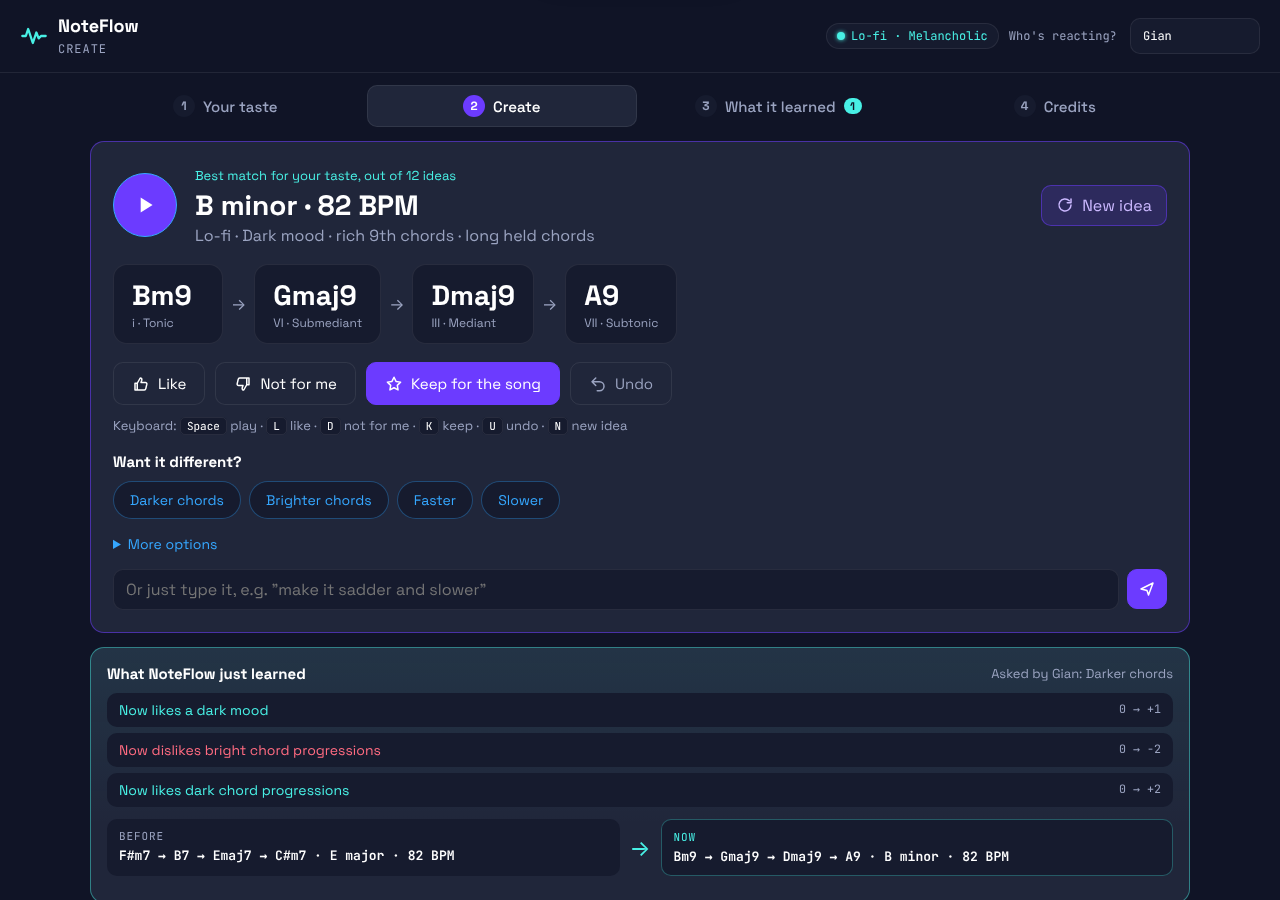
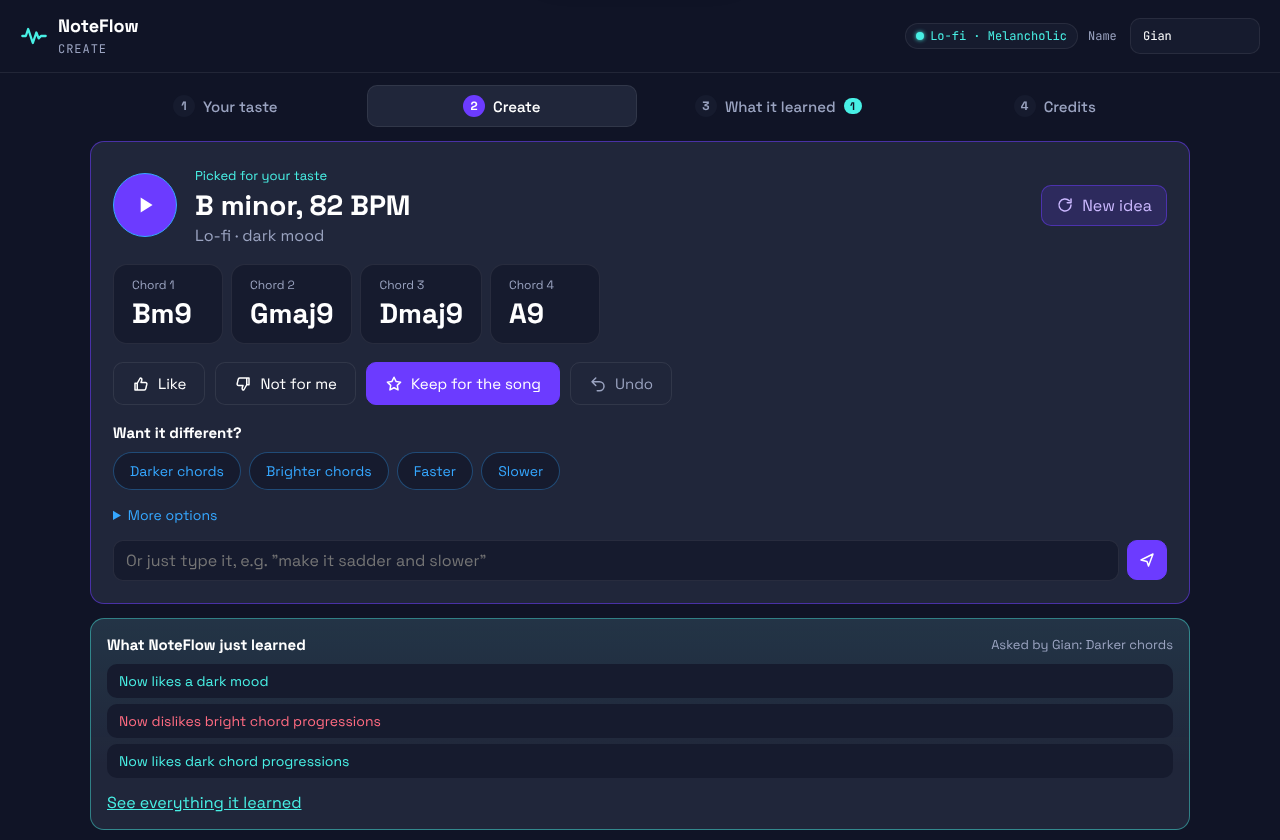
Clean up repo and docs for judges

diff --git a/static/app.js b/static/app.js
@@ -11,7 +11,6 @@ const KIND_NAMES = {
   restore: "Picked up where you left off",
 };
 const TAB_NAMES = { studio: "Create", preferences: "Your taste", engine: "What it learned", split: "Credits" };
-const HOOKS = ["Chorus", "Drop"];
 const GROUPS = [
   ["Mood", ["darker", "brighter"]],
   ["Speed", ["faster", "slower"]],
@@ -52,7 +51,6 @@ const MAIN_CHANGES = ["darker", "brighter", "faster", "slower"];
 const DEMO = { genre: "lofi", mood: "melancholic", bpm: 82 };
 
 const esc = (text) => String(text ?? "").replace(/[&<>"']/g, (c) => `&#${c.charCodeAt(0)};`);
-const signed = (n) => (n > 0 ? `+${n}` : `${n}`);
 const band = (bpm) => (bpm < 90 ? "slow" : bpm < 115 ? "medium" : "fast");
 const phrase = (kind, value) => PHRASES[kind]?.(value) || `${kind} ${value}`;
 const positive = (stance) => stance === "likes" || stance === "loves";
@@ -65,9 +63,8 @@ function changeSentence(c) {
   return `Dislikes ${what} ${more ? "a bit less" : "even more"}`;
 }
 
-function changeItem(c, tag = "li") {
-  const up = c.to > c.from ? "up" : "down";
-  return `<${tag} class="learned ${up}"><span>${esc(changeSentence(c))}</span><small>${signed(c.from)} → ${signed(c.to)}</small></${tag}>`;
+function changeItem(c) {
+  return `<li class="learned ${c.to > c.from ? "up" : "down"}"><span>${esc(changeSentence(c))}</span></li>`;
 }
 
 async function api(path, body) {
@@ -187,39 +184,27 @@ function renderSuggestion() {
   $("#play").disabled = !ready;
   if (!ready) return;
   const { idea, reasons } = suggestion;
-  $("#pick-note").textContent = suggestion.explored
-    ? "Trying something new to learn your taste"
-    : `Best match for your taste, out of ${suggestion.considered} ideas`;
+  $("#pick-note").textContent = suggestion.explored ? "Trying something new to learn your taste" : "Picked for your taste";
   $("#pick-note").className = `pick-note ${suggestion.explored ? "explore" : ""}`;
-  $("#idea-title").textContent = `${idea.key[0].toUpperCase()}${idea.key.slice(1)} · ${idea.bpm} BPM`;
-  $("#idea-meta").textContent = `${state.options.genres[state.profile.genre]} · ${state.options.moods[idea.features.mood]} mood · ${phrase("harmony", idea.features.harmony)} · ${phrase("rhythm", idea.features.rhythm)}`;
+  $("#idea-title").textContent = `${idea.key[0].toUpperCase()}${idea.key.slice(1)}, ${idea.bpm} BPM`;
+  $("#idea-meta").textContent = `${state.options.genres[state.profile.genre]} · ${state.options.moods[idea.features.mood].toLowerCase()} mood`;
   $("#chords").innerHTML = idea.chords
-    .map((c) => `<div class="chord"><b>${esc(c.name)}</b><small>${esc(c.roman)} · ${esc(c.function)}</small></div>`)
-    .join('<span class="chord-arrow">→</span>');
-  $("#sections").innerHTML = idea.structure
-    .map((x) => `<span class="${HOOKS.includes(x.section) ? "hook" : ""}">${esc(x.section)} · ${x.bars} bars</span>`)
+    .map((c, i) => `<div class="chord"><small>Chord ${i + 1}</small><b>${esc(c.name)}</b></div>`)
     .join("");
   $("#theme-tag").textContent = `About ${idea.features.theme}`;
   $("#lyrics").innerHTML = idea.lyrics.map((line) => `<li>${esc(line)}</li>`).join("");
-  $("#voicings").innerHTML = idea.chords.map(voicingCard).join("");
-  $("#reasons").innerHTML = reasons.map(reasonRow).join("");
+  $("#song-form").textContent = `Song form: ${idea.structure.map((x) => x.section).join(" → ")}`;
+  const ranked = [...reasons].sort((a, b) => b.weight - a.weight);
+  $("#reasons").innerHTML = ranked.slice(0, 3).map(reasonRow).join("");
+  $("#reasons-all").innerHTML = ranked.slice(3).map(reasonRow).join("");
   $$(".verdict").forEach((b) => (b.disabled = false));
   $("#undo").disabled = !state.can_undo;
 }
 
-function voicingCard(chord) {
-  const low = Math.min(...chord.midi);
-  const range = Math.max(1, Math.max(...chord.midi) - low);
-  const bars = chord.midi
-    .map((m, j) => `<div><span>${esc(chord.notes[j])}</span><i style="width:${30 + (70 * (m - low)) / range}%"></i></div>`)
-    .join("");
-  return `<div class="voicing-card"><b>${esc(chord.name)}</b><div class="voicing">${bars}</div></div>`;
-}
-
 function reasonRow(r) {
   const mood = r.weight > 0 ? "up" : r.weight < 0 ? "down" : "";
-  const source = r.shaped_by === "Your preferences" ? "From your starting taste" : r.shaped_by ? `Learned from: ${r.shaped_by}` : "Not rated yet";
-  return `<li class="${mood}"><span>${esc(REASON[r.stance])} <b>${esc(phrase(r.kind, r.value))}</b></span><span class="w">${signed(r.weight)}</span><small>${esc(source)}</small></li>`;
+  const asked = r.shaped_by && r.shaped_by !== "Your preferences" ? `<small>Because: ${esc(r.shaped_by)}</small>` : "";
+  return `<li class="${mood}"><span>${esc(REASON[r.stance])} <b>${esc(phrase(r.kind, r.value))}</b></span>${asked}</li>`;
 }
 
 function changeButtons(ids, labels) {
@@ -278,7 +263,7 @@ function entryCard(e) {
     `<div class="entry-head"><span class="kind ${e.kind}">${KIND_NAMES[e.kind]}</span><span class="muted small">Update ${e.version} · ${timeAgo(e.time)}</span></div>`,
     e.kind === "setup" ? `<div>${esc(e.label.replace("Calibrated from preferences: ", "Started from your taste: "))}</div>` : `<div>${esc(e.label)}</div>`,
     e.quote ? `<div class="quote">"${esc(e.quote)}"</div>` : "",
-    changes.length ? `<ul class="learned-list">${changes.map((c) => changeItem(c)).join("")}</ul>` : "",
+    changes.length ? `<ul class="learned-list">${changes.map(changeItem).join("")}</ul>` : "",
     e.before ? `<div class="ba-row"><div class="ba"><span>Before</span><b>${esc(e.before)}</b></div><div class="ba-arrow">→</div><div class="ba after"><span>Next idea</span><b>${esc(e.after || "")}</b></div></div>` : "",
   ];
   return `<div class="entry ${e.version === freshVersion ? "fresh" : ""}">${parts.join("")}</div>`;
@@ -309,7 +294,6 @@ function renderEngine() {
   }
   const feedback = state.history.filter((h) => ["like", "dislike", "keep", "request"].includes(h.kind)).length;
   $("#stat-rules").textContent = `${state.seed_count} → ${state.rule_count}`;
-  $("#stat-version").textContent = state.version;
   $("#stat-feedback").textContent = feedback;
   $("#stat-kept").textContent = state.song.length;
   const peak = Math.max(...state.history.map((h) => h.count), 1);
@@ -408,11 +392,8 @@ function renderAll() {
 
 function showChanged(entry) {
   const changes = entry.changes || [];
-  const more = changes.length > 5 ? `<li class="learned muted">…and ${changes.length - 5} more in "What it learned"</li>` : "";
   $("#changed-label").textContent = entry.label;
-  $("#changed-before").textContent = entry.before;
-  $("#changed-after").textContent = entry.after;
-  $("#changed-list").innerHTML = changes.slice(0, 5).map((c) => changeItem(c)).join("") + more;
+  $("#changed-list").innerHTML = changes.slice(0, 3).map(changeItem).join("");
   $("#changed").hidden = false;
 }
 
@@ -458,6 +439,7 @@ async function guarded(task, label = "Writing a new idea…") {
 
 $$(".tabs button").forEach((b) => b.addEventListener("click", () => showTab(b.dataset.tab)));
 $$(".go-preferences").forEach((b) => b.addEventListener("click", () => showTab("preferences")));
+$$(".go-learned").forEach((b) => b.addEventListener("click", () => showTab("engine")));
 $("#play").addEventListener("click", () => ($("#play").classList.contains("playing") ? stopAudio() : play()));
 
 $("#regenerate").addEventListener("click", () => guarded(async () => {

diff --git a/static/style.css b/static/style.css
@@ -179,9 +179,6 @@ main { max-width: 1100px; width: calc(100% - 32px); margin: 0 auto; padding: 14p
 .stats span { display: block; font-family: var(--mono); font-size: 11.5px; text-transform: uppercase; letter-spacing: 0.08em; color: var(--muted); }
 .stats b { display: block; margin-top: 4px; font-size: 22px; color: var(--cyan); }
 
-.sections { display: flex; flex-wrap: wrap; gap: 6px; }
-.sections span { font-family: var(--mono); font-size: 12px; text-transform: uppercase; padding: 5px 9px; border-radius: 8px; background: var(--surface); border: 1px solid var(--line); }
-.sections span.hook { background: var(--primary); border-color: var(--primary); }
 
 .hero { border-color: rgba(108, 59, 255, 0.55); padding: 22px; display: flex; flex-direction: column; gap: 18px; }
 .hero-top { display: flex; align-items: center; gap: 18px; }
@@ -198,9 +195,8 @@ main { max-width: 1100px; width: calc(100% - 32px); margin: 0 auto; padding: 14p
 .chord-line { display: flex; flex-wrap: wrap; align-items: center; gap: 8px; }
 .chord { display: flex; flex-direction: column; gap: 2px; padding: 12px 18px; border-radius: 14px; background: var(--inset); border: 1px solid var(--line); min-width: 110px; transition: border-color .15s, background .15s; }
 .chord b { font-size: 28px; }
-.chord small { color: var(--muted); font-size: 12px; }
+.chord small { color: var(--muted); font-size: 12px; order: -1; }
 .chord.on { border-color: var(--cyan); background: rgba(72, 240, 229, 0.08); }
-.chord-arrow { color: var(--muted); }
 
 .react { display: flex; flex-wrap: wrap; gap: 10px; }
 .react button { padding: 11px 18px; font-size: 15px; }
@@ -218,16 +214,9 @@ main { max-width: 1100px; width: calc(100% - 32px); margin: 0 auto; padding: 14p
 .learned.up span { color: var(--cyan); }
 .learned.down span { color: var(--danger); }
 
-.voicings { display: grid; grid-template-columns: repeat(4, 1fr); gap: 10px; margin-top: 12px; }
-.voicing-card { display: flex; flex-direction: column; gap: 8px; }
-.voicing { background: var(--inset); border-radius: 8px; padding: 8px; display: flex; flex-direction: column-reverse; gap: 4px; }
-.voicing div { display: flex; align-items: center; gap: 6px; font-family: var(--mono); font-size: 11px; color: var(--muted); }
-.voicing i { height: 5px; border-radius: 3px; background: var(--blue); }
-.voicing div:nth-child(2) i { background: var(--cyan); }
 
 .center-row { justify-content: center; margin-top: 8px; }
 button.link { padding: 0; border: 0; background: none; color: var(--cyan); text-decoration: underline; font-size: inherit; }
-.shortcuts { margin: -6px 0 0; }
 kbd { font-family: var(--mono); font-size: 11px; padding: 1px 6px; border-radius: 5px; border: 1px solid var(--line); background: var(--inset); color: var(--text); }
 .group.main .chip { padding: 9px 16px; font-size: 14px; }
 .more-changes { margin-top: 4px; }
@@ -236,6 +225,10 @@ kbd { font-family: var(--mono); font-size: 11px; padding: 1px 6px; border-radius
 .more-changes .group { margin-bottom: 8px; }
 :focus-visible { outline: 2px solid var(--cyan); outline-offset: 2px; }
 input:focus-visible { outline: none; }
+.more-reasons summary { cursor: pointer; color: var(--blue); font-size: 14px; margin-top: 8px; width: max-content; }
+.song-form { margin-top: 12px; }
+.changed .link { margin-top: 2px; }
+.reasons li { grid-template-columns: 1fr; }
 .details summary { cursor: pointer; font-weight: 600; color: var(--muted); }
 .details[open] summary { color: var(--text); margin-bottom: 4px; }
 .details .seg { margin: 12px 0; width: max-content; }
@@ -396,18 +389,16 @@ input[type="range"] { width: 100%; padding: 0; accent-color: var(--cyan); backgr
   #regenerate { flex-basis: 100%; }
   .play-btn { width: 56px; height: 56px; }
   .hero-title h2 { font-size: 22px; }
+  .chord-line { display: grid; grid-template-columns: 1fr 1fr; }
   .chord { min-width: 0; padding: 10px 12px; }
   .chord b { font-size: 22px; }
-  .chord-arrow { display: none; }
-  .voicings { grid-template-columns: 1fr 1fr; }
-  .group > span { width: 100%; }
+      .group > span { width: 100%; }
   .ba-row { grid-template-columns: 1fr; }
   .ba-arrow { justify-self: center; transform: rotate(90deg); }
 }
 
 @media (hover: none) {
-  .shortcuts { display: none; }
-}
+  }
 
 @media (max-width: 640px) {
   button, .chip { min-height: 44px; }

diff --git a/static/index.html b/static/index.html
@@ -19,7 +19,7 @@
     </div>
     <div class="session">
       <span class="pill live"><span class="dot"></span><span id="session-label">Not set up yet</span></span>
-      <label class="musician">Who's reacting? <input id="who" placeholder="Your name"></label>
+      <label class="musician">Name <input id="who" placeholder="Your name"></label>
     </div>
   </header>
 
@@ -75,8 +75,6 @@
             </button>
           </div>
 
-          <p class="shortcuts muted small">Keyboard: <kbd>Space</kbd> play · <kbd>L</kbd> like · <kbd>D</kbd> not for me · <kbd>K</kbd> keep · <kbd>U</kbd> undo · <kbd>N</kbd> new idea</p>
-
           <div class="change">
             <h3>Want it different?</h3>
             <div id="request-groups" class="groups"></div>
@@ -95,29 +93,24 @@
             <span id="changed-label" class="muted small"></span>
           </div>
           <ul id="changed-list" class="learned-list"></ul>
-          <div class="ba-row">
-            <div class="ba"><span>Before</span><b id="changed-before"></b></div>
-            <div class="ba-arrow">→</div>
-            <div class="ba after"><span>Now</span><b id="changed-after"></b></div>
-          </div>
+          <button class="link go-learned">See everything it learned</button>
         </div>
 
         <div class="grid-2">
           <div class="panel">
             <div class="panel-head"><h3>Why NoteFlow picked this</h3></div>
             <ul id="reasons" class="reasons"></ul>
+            <details class="more-reasons">
+              <summary>Show all reasons</summary>
+              <ul id="reasons-all" class="reasons"></ul>
+            </details>
           </div>
           <div class="panel">
-            <div class="panel-head"><h3>Song sketch</h3><span id="theme-tag" class="pill blue"></span></div>
-            <div id="sections" class="sections"></div>
+            <div class="panel-head"><h3>Lyric idea</h3><span id="theme-tag" class="pill blue"></span></div>
             <ol id="lyrics" class="lyrics"></ol>
+            <p id="song-form" class="muted small song-form"></p>
           </div>
         </div>
-
-        <details class="panel details">
-          <summary>Notes in each chord</summary>
-          <div id="voicings" class="voicings"></div>
-        </details>
       </div>
     </section>
 
@@ -155,14 +148,13 @@
       <div class="panel">
         <span class="eyebrow cyan">Step 3</span>
         <h2>What NoteFlow has learned</h2>
-        <p class="muted">Every reaction changes NoteFlow's taste rules. Here is each change, step by step.</p>
+        <p class="muted">Every reaction teaches NoteFlow a little more about your taste.</p>
         <div class="stats">
-          <div><span>Taste rules</span><b id="stat-rules"></b></div>
-          <div><span>Updates</span><b id="stat-version"></b></div>
-          <div><span>Reactions</span><b id="stat-feedback"></b></div>
+          <div><span>Things it knows</span><b id="stat-rules"></b></div>
+          <div><span>Your reactions</span><b id="stat-feedback"></b></div>
           <div><span>Ideas kept</span><b id="stat-kept"></b></div>
         </div>
-        <span class="eyebrow">Taste rules over time</span>
+        <span class="eyebrow">Growing over time</span>
         <div id="growth" class="growth"></div>
       </div>
 
